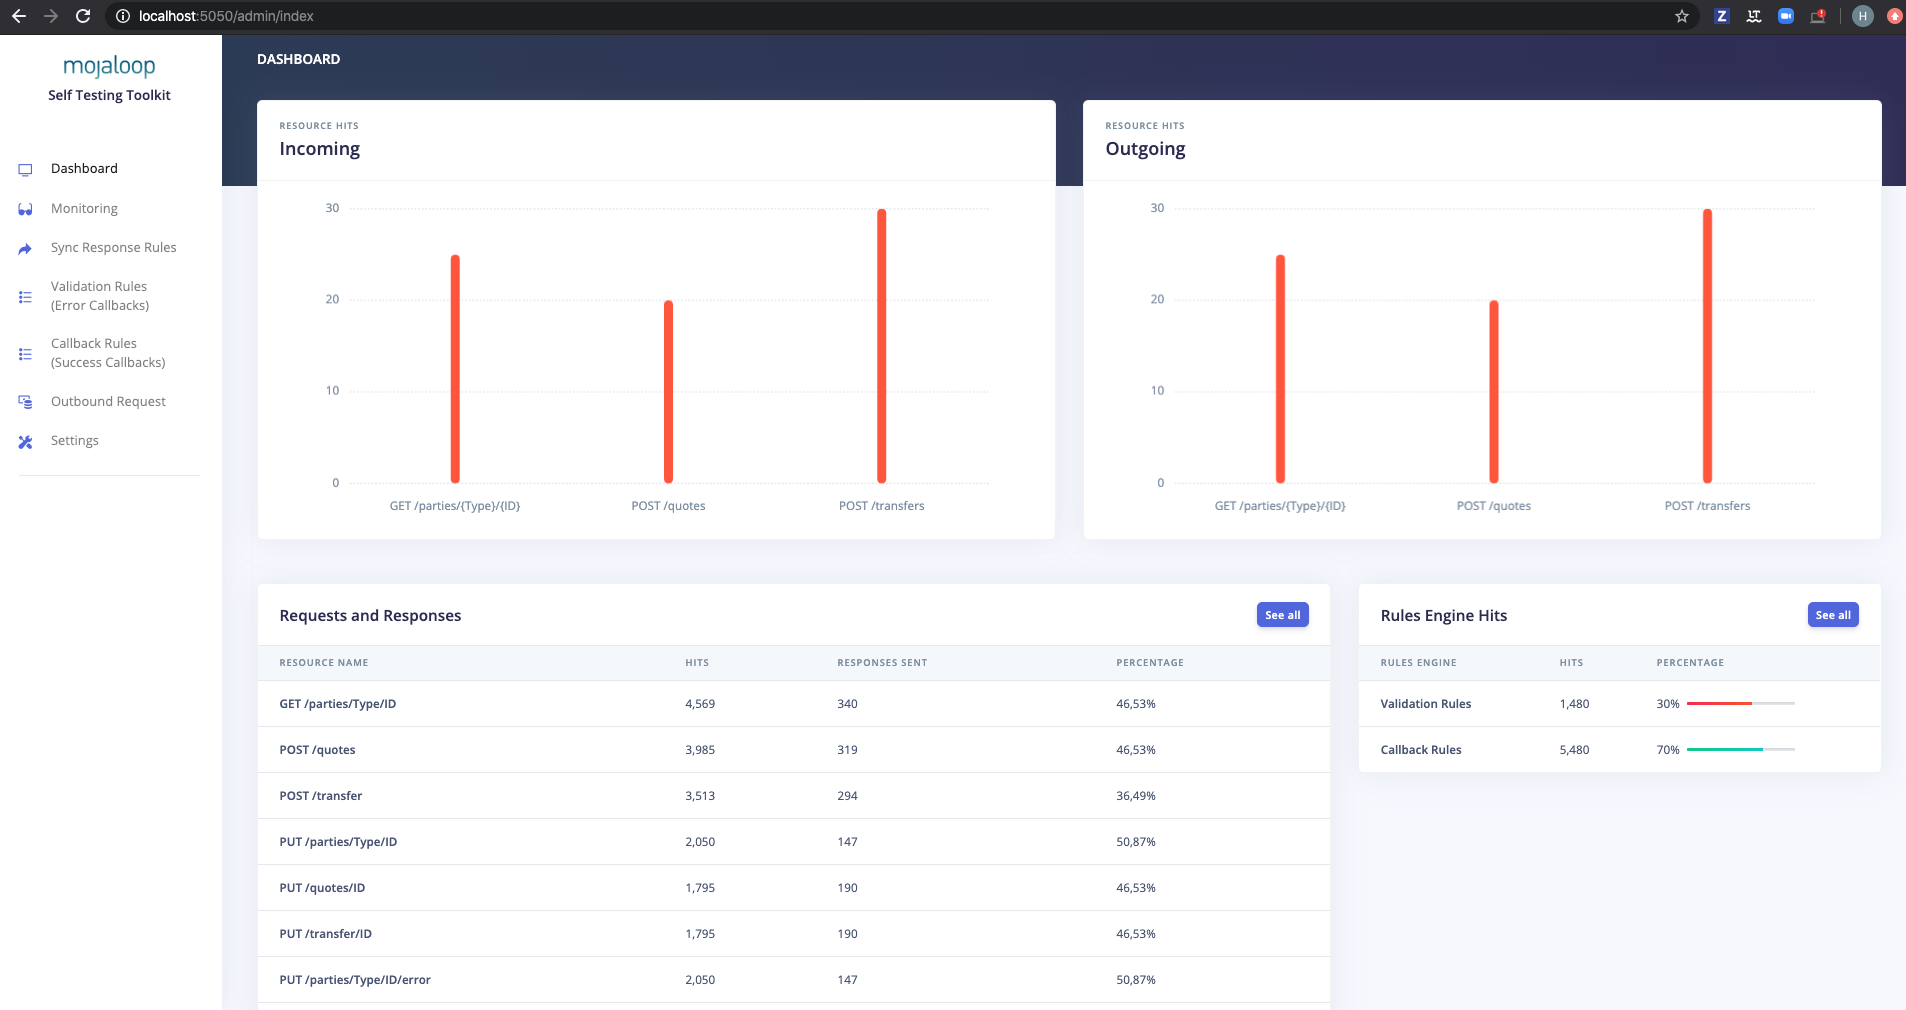
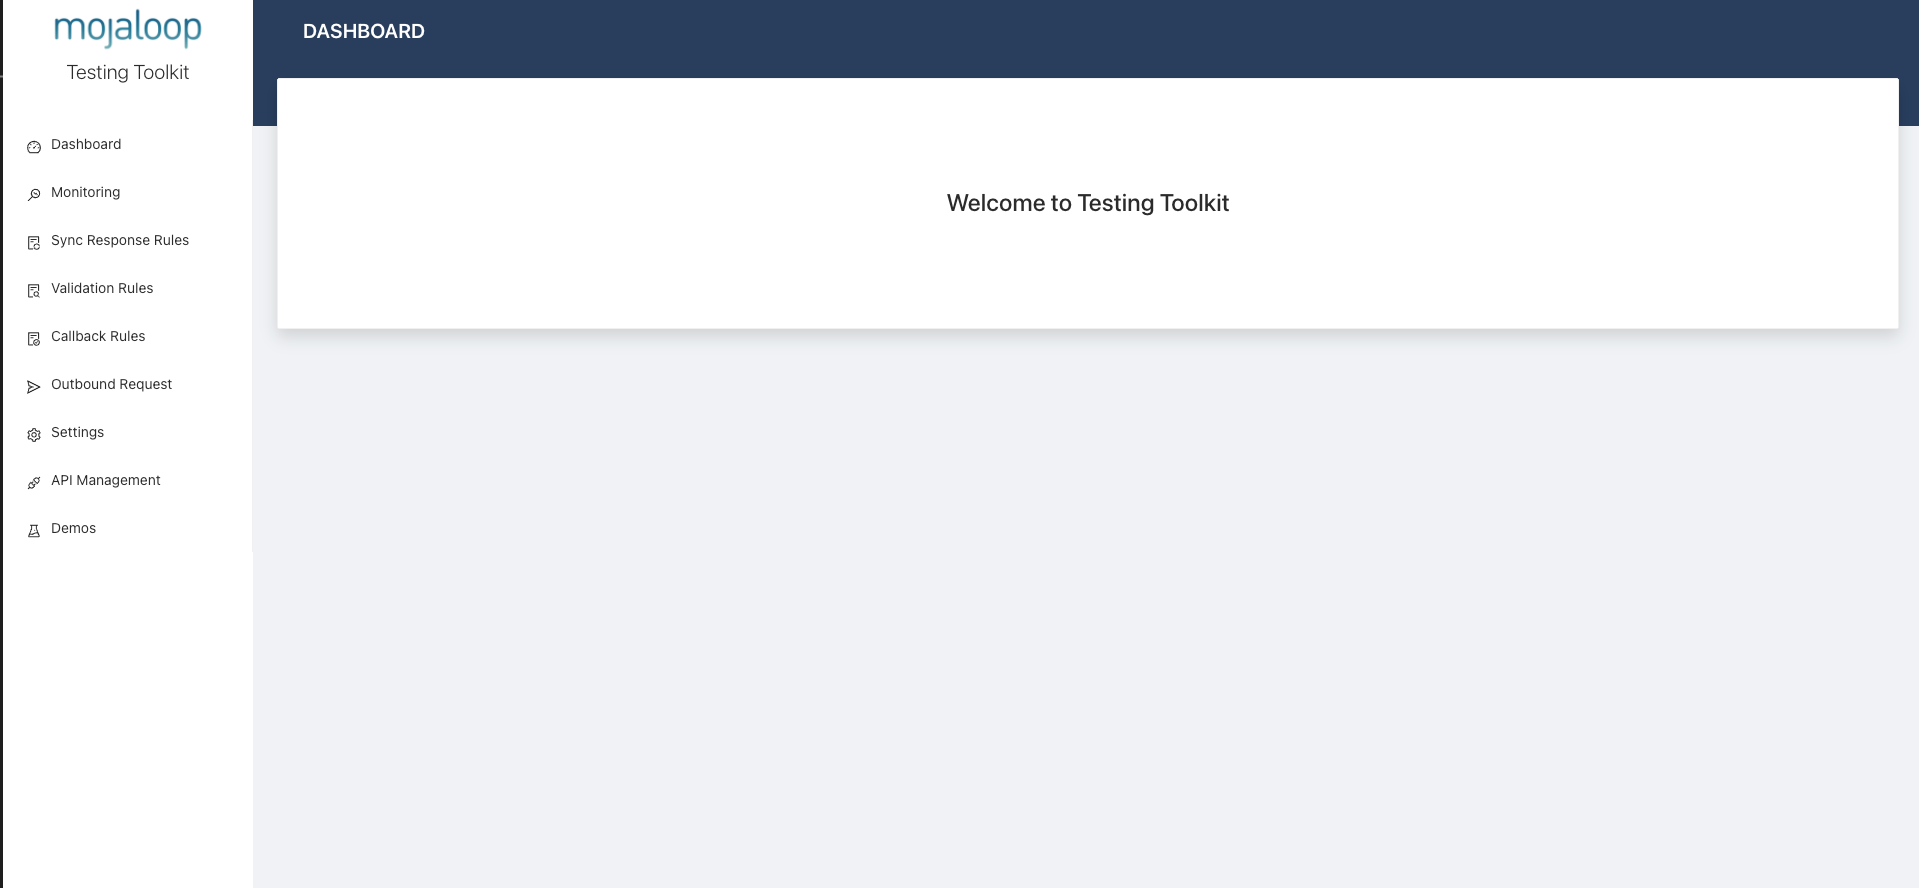
Updated documentation

diff --git a/src/lib/scripting-engines/vm-javascript-sandbox.js b/src/lib/scripting-engines/vm-javascript-sandbox.js
@@ -69,6 +69,10 @@ const executeAsync = async (script, data, contextObj) => {
   const fullScript = preScript + script.join('\n') + postScript
   let consoleLog = []
 
+  if (data.response) {
+    contextObj.response = data.response
+  }
+
   try {
     await Sandbox.runInNewContext(fullScript, contextObj, { timeout: 30000, microtaskMode: 'afterEvaluate' })
     for (let i = 0; i < contextObj.consoleOutObj.stdOut.length; i++) {

diff --git a/documents/User-Guide-Mojaloop-Testing-Toolkit.md b/documents/User-Guide-Mojaloop-Testing-Toolkit.md
@@ -8,7 +8,7 @@
 
 1. [At first glance](#1-at-first-glance)
 
-2. [Dashboard](#2-dashboard)
+2. [Welcome Page](#2-welcome-page)
 
 3. [Monitoring](#3-monitoring)
 
@@ -22,7 +22,7 @@
 
 7. [Outbound Request](#7-outbound-request)
 
-    7.1 [Import Collection](#71-import-collection)
+    7.1 [Collection Manager](#71-collection-manager)
 
     7.2 [Import Environment](#72-import-environment)
 
@@ -56,7 +56,7 @@ When you open the **Mojaloop Testing Toolkit** in your browser, you will be welc
 
 Take note of the navigation bar on the left. The navigational items are;
 
-- **Dashboard**
+- **Welcome Page**
 - **Monitoring**
 - **Sync Response Rules**
 - **Validation Rules (Error Callbacks)**
@@ -66,17 +66,15 @@ Take note of the navigation bar on the left. The navigational items are;
 
 We will work through each one of the items and provide you with a fair understanding of the current functionality.
 
-### 2 Dashboard
+### 2 Welcome Page
 
-The _Dashboard_ is the default opening window. It will provide the user with valuable statistical data pertaining to request and response activities (Request and Responses statistics, including Rules Engine "Hits" statistics).
-
-The static data will be replaced with accurate information once the development of this functionality is at a more advanced stage.
+The _Welcome page_ is the default opening window.
 
 ![Opening view](/assets/images/opening-view.png)
 
 ### 3 Monitoring
 
-The _Monitoring_ navigation tab allows you to monitor _incoming_ requests from the **Mojaloop Simulator**.
+The _Monitoring_ navigation tab allows you to monitor _incoming_ and _outgoing_ requests to / from the **Testing Toolkit**.
 
 ![Monitoring Initial State](/assets/images/monitoring-initial-state.png) 
 
@@ -240,7 +238,7 @@ The same applies for this section, the functionality is similar to [4 Sync Respo
 
 ### 7 Outbound Request
 
-This sections will enable you to intiate requests from the testing toolkit to your DFSP implementation.
+This sections will enable you to intiate requests from the testing toolkit to your DFSP / HUB implementations.
 
 The user can create a collection of operations and add a number of assertions to these operations. The assertions can be setup and customized to support your testing requirements and verify both positive and negative requests and responses. 
 
@@ -250,22 +248,21 @@ Selecting the _**Outbound Request**_ navigation tab on the left side, the follow
 
 At the top of the screen, you will notice the following buttons on the main window, starting from the left.
 
-- _**Import Collection**_
-- _**Import Environment**_
-- _**New Template**_
-- _**Show Template**_
-- _**Save**_
+- _**Collections Manager**_
+- _**Load Sample**_
+- _**Show Current Template**_
+- _**Iteration Runner**_
 - _**Send**_
 
-The window on the left contains the _**Template**_ with the _Test Cases_ and operations. 
+You can see two tabs _'Test Cases'_ and _'Input Values'_. 
 
 ![Template Window](/assets/images/template-window.png)
 
-#### 7.1 Import Collection
+#### 7.1 Collection Manager
 
-By selecting the _**Import Collection**_ button, it will allow you to import a collection. For your exploration, sample collections are available under the project root directory under [/examples/collections](/examples/collections) sub directory. To select one of the sample files, on the file explorer window that poped up when you selected the _**Import Collection**_ button, navigate to [/examples/collections/dfsp](/examples/collections/dfsp) under the project root directory. Select the ```p2p_happy_path.json``` file to import into the **Mojaloop Testing Toolkit** application. This sample file consist of a couple of test samples. You could add more test cases by clicking on _Add Test Case_ button
+By selecting the _**Collection Manager**_ button, it will open a drawer on left which contains a number of file operations. That will allow you to import, export and modify a collection. For your exploration, sample collections are available under the project root directory under [/examples/collections](/examples/collections) sub directory. To select one of the sample files, on the file explorer window that poped up when you selected the _**Import File**_ button, navigate to [/examples/collections/dfsp](/examples/collections/dfsp) under the project root directory. Select the ```p2p_happy_path.json``` file to import into the **Mojaloop Testing Toolkit** application. You should select the file in the collection manager, and observe the test cases should be loaded in the main screen. You could add more test cases by clicking on _Add Test Case_ button
 
-![Import Collection](/assets/images/import-template.png)
+![Collection Manager](/assets/images/import-template.png)
 
 _**P2P Transfer Happy Path**_
 
@@ -278,9 +275,7 @@ _**P2P Transfer Happy Path**_
 ![Opened Imported Template](/assets/images/opened-imported-template.png)
 
 #### 7.2 Import Environment
-By selecting the _**Import Environment**_ button, it will allow you to import input values. For your exploration, sample environments are available under the project root directory under [/examples/environments](/examples/environments) sub directory. To select one of the sample files, on the file explorer window that poped up when you selected the _**Import Environment**_ button, navigate to [/examples/environments](/examples/environments) under the project root directory. Select the ```dfsp_local_environment.json``` file to import into the **Mojaloop Testing Toolkit** application. This sample file consist of a couple of input values.
-
-![Import Environment](/assets/images/import-template.png)
+By selecting the _**Import Environment**_ button in _Input Values_ tab, it will allow you to import input values. For your exploration, sample environments are available under the project root directory under [/examples/environments](/examples/environments) sub directory. To select one of the sample files, on the file explorer window that poped up when you selected the _**Import Environment**_ button, navigate to [/examples/environments](/examples/environments) under the project root directory. Select the ```dfsp_local_environment.json``` file to import into the **Mojaloop Testing Toolkit** application. This sample file consist of a couple of input values.
 
 It is possible to update the **Input Values** on the right hand side window. Additional input values can be added, by selecting the _**Add Input Value**_ button on the top right of this right hand side window. These values relates to the specified variable that you can select and use in any **Request** that you create.
 
@@ -314,10 +309,25 @@ The **Editor** tab displays request content and it can be updated manually on th
 
 ##### 7.3.3 Scripts
 
-The **Scripts** tab allows you to use postman like pre request and test scripts. Make sure that advanced features options is enabled. 
-- pm.test - not supported - Use Testing Toolkit Tests for this purpose. In **Tests** You could use values stored in the environment. To access thoes values use environment.'key'
-- pm.response - to get the response object outside pm.sendRequest use pm.response.body not pm.response.json()
-- everything else should work the same way is in postman
+The **Scripts** tab allows you to use postman like pre request and test scripts. Make sure that advanced features options is enabled.
+
+You can write scripts in two formats.
+
+- **Postman Script:**
+
+  If you select postman script option, you can use the same functions like pm.sendRequest as in postman. This option is usefull when you want to convert your existing postman tests to testing toolkit format.
+  - pm.test - not supported - Use Testing Toolkit Tests for this purpose. In **Tests** You could use values stored in the environment. To access thoes values use environment.'key'
+  - pm.response - to get the response object outside pm.sendRequest use pm.response.body not pm.response.json()
+  - everything else should work the same way is in postman
+
+- **Java Script:**
+
+  If you want advanced features and flexibility, you can select javascript option. This option enables you to write the scripts in javascript format and you can use the following functions.
+  - **console.log** - function
+  - **axios** - functions (async)
+  - **response** - variable
+  - **environment** - variable
+
 
 ![Sample Pre Request and Post Request Scripts](/assets/images/test-case-editor-scripts.png)
 
